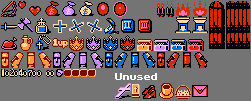
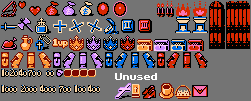
Bug fixes
- Add point effects when simon collected money bags
- Camera move smoothly

Changed region(s): [[0.0, 0.8317, 0.4183, 0.9208]]

diff --git a/Game/PlayScence.cpp b/Game/PlayScence.cpp
@@ -76,6 +76,7 @@ CPlayScene::CPlayScene(int id, LPCWSTR filePath):	CScene(id, filePath)
 #define OBJECT_TYPE_DOOR							51
 #define OBJECT_TYPE_BREAK_WALL				90
 #define OBJECT_TYPE_WALL_PIECES				91
+#define OBJECT_TYPE_POINT_EFFECTS			92
 
 #define MAX_SCENE_LINE 1024
 
@@ -181,8 +182,7 @@ void CPlayScene::_ParseSection_SCENE_PLAYER(string line)
 		return;
 	}
 
-	//obj = new CSimon(x,y);
-	//obj = CSimon::GetInstance();
+
 	playerObj = CSimon::GetInstance();
 	player = (CSimon*)playerObj;
 
@@ -274,6 +274,13 @@ void CPlayScene::_ParseSection_SCENE_OBJECTS(string line)
 	{
 		obj = new CWallPiece();		
 		CWallPieces::GetInstance()->AddPiece((CWallPiece*)obj);
+		break;
+	}
+
+	case OBJECT_TYPE_POINT_EFFECTS:
+	{
+		obj = new PointEffect();
+		PointEffects::GetInstance()->Add((PointEffect*)obj);
 		break;
 	}
 	case OBJECT_TYPE_BAT:
@@ -669,22 +676,10 @@ void CPlayScene::Update(DWORD dt)
 	float cx, cy;
 	player->GetPosition(cx, cy);
 	CGame* game = CGame::GetInstance();
+	cx -= game->GetScreenWidth() / 2;
 
-	if (cx >= SCREEN_WIDTH / 2)
-	{
-		cx -= game->GetScreenWidth() / 2;
-		cy -= game->GetScreenHeight() / 2;
-
-		if (cx > mapWidth - SCREEN_WIDTH)
-		{
-			cx = mapWidth - SCREEN_WIDTH;
-		}
-	}
-
-	else if (cx < SCREEN_WIDTH / 2)
-	{
-		cx = 0.0f;
-	}
+	if (cx >= (mapWidth - SCREEN_WIDTH))
+		cx = mapWidth - SCREEN_WIDTH;
 
 	game->SetCamPos(cx, 0.0f /*cy*/);
 
@@ -816,12 +811,8 @@ void CPlayScene::Unload()
 	tiledMap.clear();
 
 	CItems::GetInstance()->Clear();
-
-	CSkeleton* skeleton = CSkeleton::GetInstance();
-	skeleton = NULL;
-
-	CGhost* ghost = CGhost::GetInstance();
-	ghost = NULL;
+	CWallPieces::GetInstance()->Clear();
+	PointEffects::GetInstance()->Clear();
 
 	player = NULL;
 	DebugOut(L"[INFO] Scene %s unloaded! \n", sceneFilePath);	

diff --git a/Game/PointEffects.cpp b/Game/PointEffects.cpp
@@ -1,0 +1,82 @@
+#include "PointEffects.h"
+
+PointEffect::PointEffect()
+{
+	SetVisible(true);
+}
+
+void PointEffect::SetState(int state)
+{
+	this->state = state;
+}
+
+void PointEffect::Render()
+{
+	animation_set->at(state)->Render(x, y, -1);
+	//RenderBoundingBox();
+}
+
+void PointEffect::Update(DWORD dt, vector<LPGAMEOBJECT>* coObject)
+{
+	CGameObject::Update(dt);
+	if (visible)
+	{
+		if (start_visible < POINT_EFFECT_LIFE_SPAN)
+		{
+			start_visible += dt;
+		}
+		else
+		{
+			SetVisible(false);
+			start_visible = 0;
+		}
+	}
+}
+
+void PointEffect::GetBoundingBox(float& l, float& t, float& r, float& b)
+{
+	l = x;
+	t = y;
+	r = x + 14;
+	b = y + 8;
+}
+
+PointEffects* PointEffects::__instance = NULL;
+PointEffects* PointEffects::GetInstance()
+{
+	if (__instance == NULL)
+		__instance = new PointEffects();
+	return __instance;
+}
+
+void PointEffects::Add(PointEffect* point)
+{
+	point->SetVisible(false);
+	points.push_back(point);
+}
+
+void PointEffects::ShowPoint(int state,float x, float y)
+{
+	PointEffect* point = NULL;
+	UINT i = 0;
+	for (; i < points.size(); i++)
+	{
+		if (points[i]->isVisible() == false)
+		{
+			point = points[i];
+			i++;
+			break;
+		}
+	}
+	if (point != NULL)
+	{
+		point->SetPosition(x, y);
+		point->SetState(state);
+		point->SetVisible(true);
+	}
+}
+
+void PointEffects::Clear()
+{
+	points.clear();
+}

diff --git a/Game/PointEffects.h b/Game/PointEffects.h
@@ -1,0 +1,35 @@
+#pragma once
+#include "GameObject.h"
+
+#define POINT_EFFECT_100	0
+#define POINT_EFFECT_400	1
+#define POINT_EFFECT_700	2
+#define POINT_EFFECT_1000	3
+#define POINT_EFFECT_2000	4
+
+#define POINT_EFFECT_LIFE_SPAN 300
+
+class PointEffect : public CGameObject
+{
+private:
+	DWORD start_visible = 0;
+public: 
+	PointEffect();
+	virtual void SetState(int state);
+	virtual void Render();
+	virtual void Update(DWORD dt, vector<LPGAMEOBJECT>* coObject = NULL);
+	virtual void GetBoundingBox(float& l, float& t, float& r, float& b);
+};
+
+class PointEffects
+{
+private:
+	vector <PointEffect*> points;
+	static PointEffects* __instance;
+public:	
+	static PointEffects* GetInstance();
+	void Add(PointEffect* point);
+	void ShowPoint(int state, float x, float y);
+	void Clear();
+	PointEffects() { };
+};

diff --git a/Game/Simon.cpp b/Game/Simon.cpp
@@ -598,9 +598,21 @@ void CSimon::Update(DWORD dt, vector <LPGAMEOBJECT>* coObjects)
 				DebugOut(L"[ITEMS] Money Bag Collected \n");
 				if (e->nx != 0 || e->ny != 0)
 				{
-					e->obj->SetVisible(false);
+					e->obj->SetVisible(false);	
+					PointEffects::GetInstance()->ShowPoint(POINT_EFFECT_100, e->obj->x + 5, e->obj->y+ 2);
+			
 				}
-			}			
+			}		
+
+			else if (dynamic_cast<ItemCrown*>(e->obj))
+			{
+			DebugOut(L"[ITEMS] (+2000) \n");
+			if (e->nx != 0 || e->ny != 0)
+				{
+				e->obj->SetVisible(false);
+				PointEffects::GetInstance()->ShowPoint(POINT_EFFECT_2000, e->obj->x + 5, e->obj->y + 2);
+				}
+			}
 #pragma endregion
 			
 			else if (dynamic_cast<CStairBottom*> (e->obj) || 

diff --git a/Game/Whip.cpp b/Game/Whip.cpp
@@ -41,6 +41,7 @@ void CWhip::Update(DWORD dt, vector<LPGAMEOBJECT>* coObjects)
 				float l, t, r, b;
 				temp->GetBoundingBox(l, t, r, b);
 				hitEffects.push_back({ (l + r) / 2, (t + b) / 2 });				
+				
 			}
 		}
 		

diff --git a/Game/WallPieces.cpp b/Game/WallPieces.cpp
@@ -64,6 +64,11 @@ void CWallPieces::DropPiece(float x, float y)
 	
 }
 
+void CWallPieces::Clear()
+{
+	pieces.clear();
+}
+
 CWallPieces* CWallPieces::__instance = NULL;
 CWallPieces* CWallPieces::GetInstance()
 {

diff --git a/Game/Simon.h b/Game/Simon.h
@@ -137,6 +137,8 @@ public:
 	bool isOnGround() { return vy == 0; }	
 	bool lastFrameAttack();
 
+	//PointEffects* point_effect = PointEffects::GetInstance();
+
 	static CSimon* GetInstance();
 
 	void GoUpStair();

diff --git a/Game/WallPieces.h b/Game/WallPieces.h
@@ -22,6 +22,7 @@ public:
 
 	void AddPiece(CWallPiece* piece);
 	void DropPiece(float x, float y);
+	void Clear();
 	CWallPieces() { };
 	static CWallPieces* GetInstance();
 };

diff --git a/Game/PlayScence.h b/Game/PlayScence.h
@@ -41,6 +41,7 @@
 #include "Axe.h"
 #include "BreakWall.h"
 #include "WallPieces.h"
+#include "PointEffects.h"
 #include "Board.h"
 #include<vector>
 #include "Grid.h"

diff --git a/Game/ItemMoneyBag.h b/Game/ItemMoneyBag.h
@@ -2,6 +2,7 @@
 #include "GameObject.h"
 #include "Brick.h"
 
+
 #define ITEM_MONEY_BAG_BBOX_WIDTH		12
 #define ITEM_MONEY_BAG_BBOX_HEIGHT	14
 
